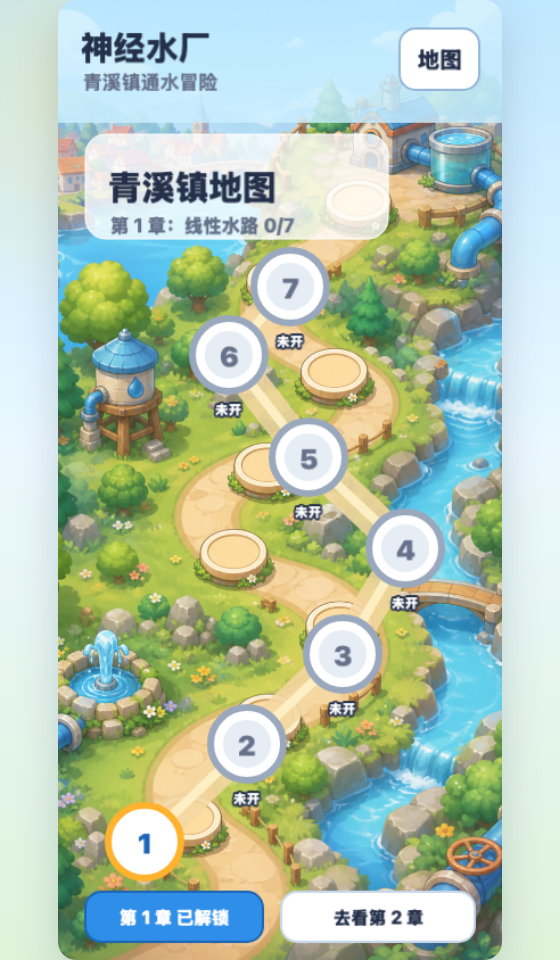
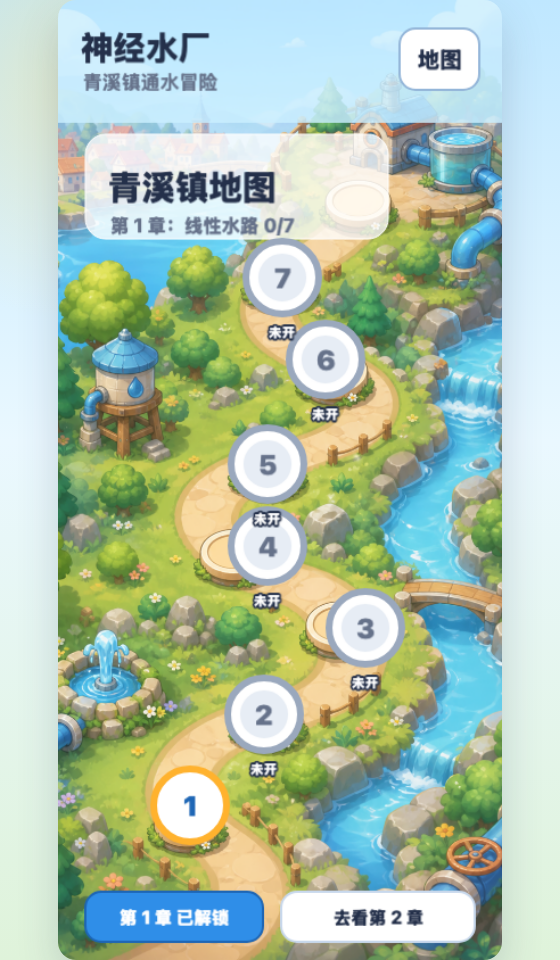
Align map nodes with artwork

Changed region(s): [[0.1821, 0.25, 0.8196, 0.9375]]

diff --git a/index.html b/index.html
@@ -491,27 +491,14 @@
 
         renderChapterOneMap() {
           const pathPoints = [
-            { x: 76, y: 740 },
-            { x: 166, y: 654 },
-            { x: 250, y: 575 },
-            { x: 305, y: 482 },
-            { x: 220, y: 402 },
-            { x: 150, y: 312 },
-            { x: 204, y: 252 }
+            { x: 116, y: 708 },
+            { x: 181, y: 628 },
+            { x: 270, y: 552 },
+            { x: 184, y: 480 },
+            { x: 184, y: 408 },
+            { x: 235, y: 316 },
+            { x: 197, y: 244 }
           ];
-          const g = this.add.graphics();
-          g.lineStyle(30, 0xf4d7a2, .86);
-          g.beginPath();
-          g.moveTo(pathPoints[0].x, pathPoints[0].y);
-          for (let i = 1; i < pathPoints.length; i += 1) {
-            const a = pathPoints[i - 1];
-            const b = pathPoints[i];
-            g.lineTo((a.x + b.x) / 2, (a.y + b.y) / 2);
-            g.lineTo(b.x, b.y);
-          }
-          g.strokePath();
-          g.lineStyle(8, 0xfff2c8, .9);
-          g.strokePath();
 
           roundedRect(this, 24, 118, 266, 92, 18, 0xffffff, .78, 0xffffff, 0);
           addText(this, 44, 146, "青溪镇地图", 31, colors.ink, { weight: "900" });
@@ -656,11 +643,12 @@
           const playHeight = height - 116;
           const image = this.add.image(W / 2, playTop + playHeight / 2, "boardBg");
           image.setDisplaySize(370, playHeight);
-          image.setAlpha(.9);
+          image.setAlpha(.74);
           const maskShape = this.make.graphics({ x: 0, y: 0, add: false });
           maskShape.fillStyle(0xffffff);
           maskShape.fillRoundedRect(10, playTop, 370, playHeight, 18);
           image.setMask(maskShape.createGeometryMask());
+          roundedRect(this, 10, playTop, 370, playHeight, 18, 0xfff4dc, .16);
 
           addText(this, 24, top + 16, `第 ${this.levelIndex + 1} 关`, 15, colors.blueDark, { weight: "900" });
           addText(this, 24, top + 38, this.level.title, 25, colors.ink, { weight: "900" });
